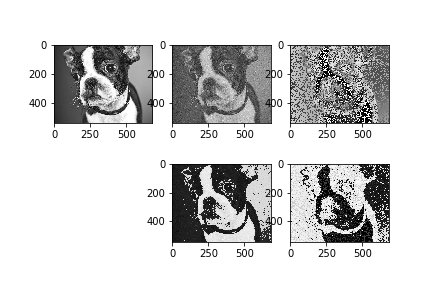
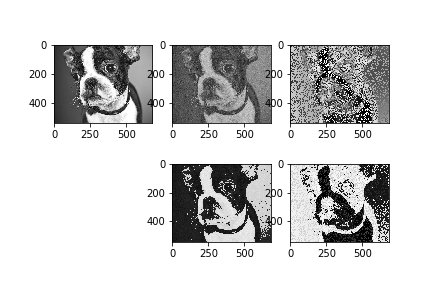
report update

diff --git a/david.tex b/david.tex
@@ -32,7 +32,13 @@
         \label{fig:variationalBayes}
     \end{figure}
 
-
+    As before with Gibbs sampling we experimented with the number of iterations before the denoising results stopped
+    getting any noticeably better. The Gaussian noise saw the greatest denoising effect with just a single iteration,
+    due to the nature of the Gaussian noise.
+    The Salt and Pepper noise however required a couple more iterations to stabilise, like with Gibbs and ICM, our particular
+    image had inverted colours due to the noise. After around a dozen iterations as lot of random pixel noise was gone
+    from the image and the original patterns on our pug are easily visible. Beyond around 25 iterations there are
+    few further improvements in denoising.
 
 
 
